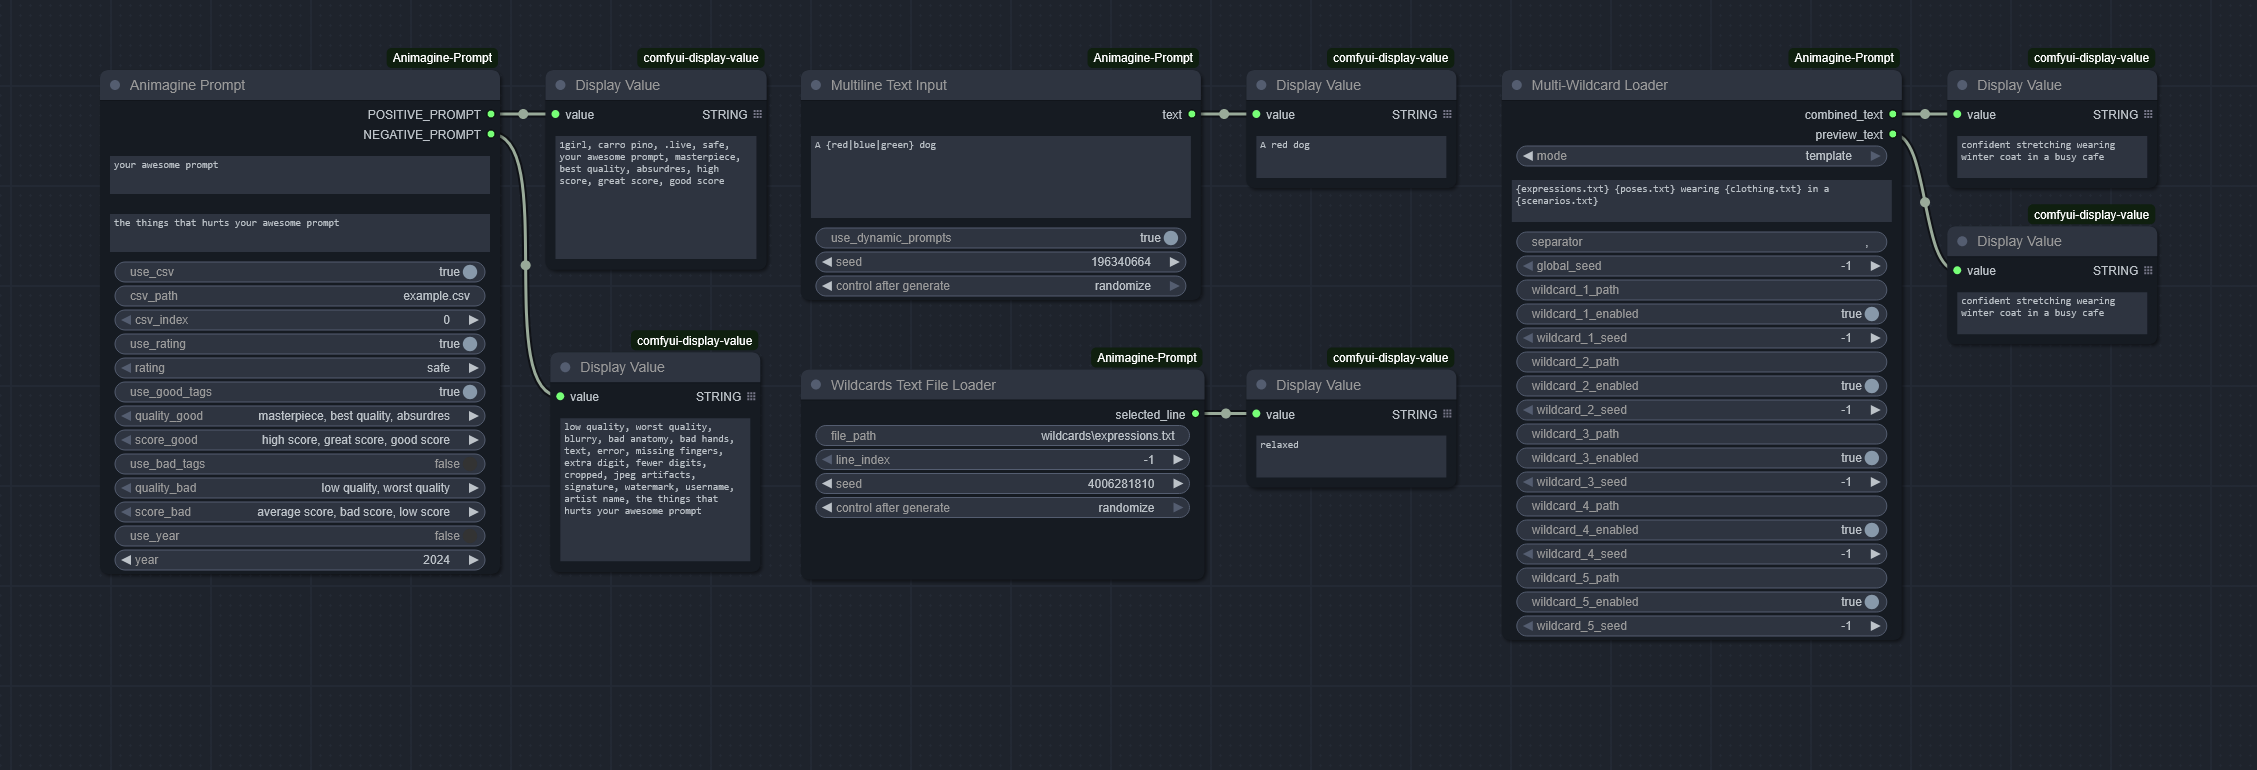
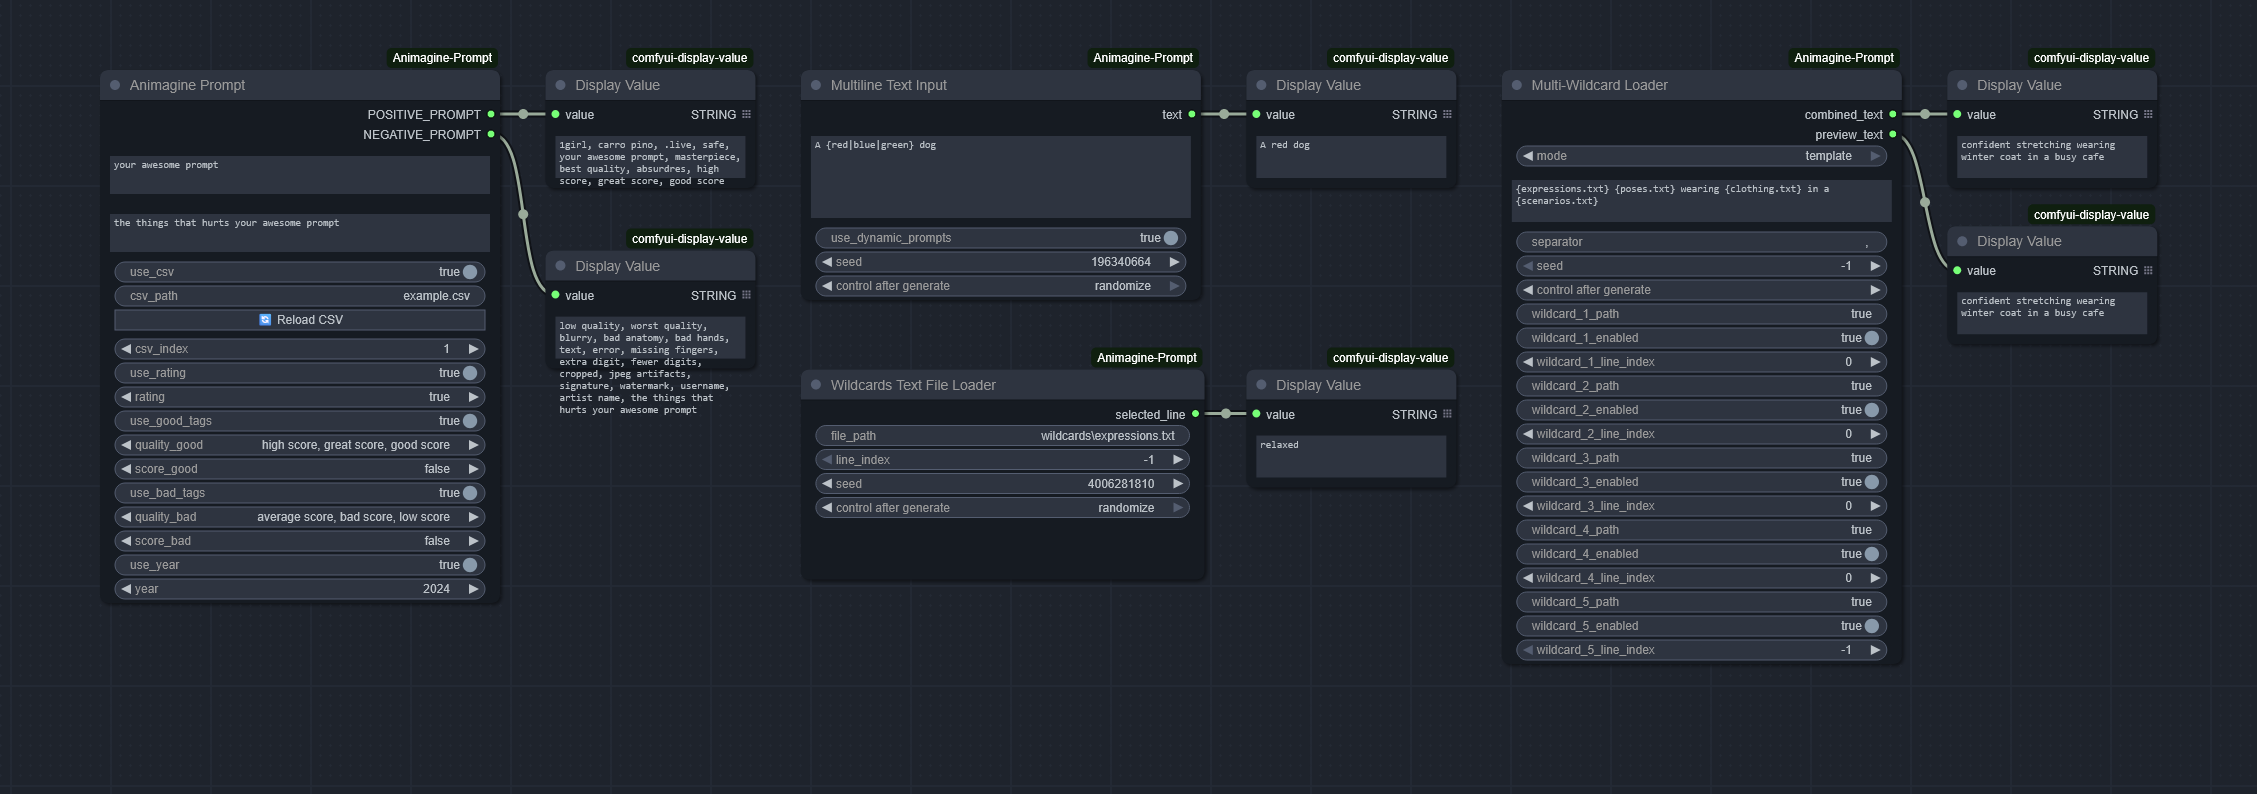
feat(api): add csv reload functionality with api endpoint
- Implement new reload_csv method in AnimaginePromptNode
- Add API routes for CSV reload functionality
- Include JavaScript extension for UI integration
- Update version to 1.6.0

diff --git a/web/animagine_reload.js b/web/animagine_reload.js
@@ -1,0 +1,91 @@
+import { app } from "../../scripts/app.js";
+import { api } from "../../scripts/api.js";
+
+/**
+ * Extension to add CSV reload button to AnimaginePrompt node
+ */
+app.registerExtension({
+    name: "AnimaginePrompt.ReloadCSV",
+    
+    async beforeRegisterNodeDef(nodeType, nodeData, app) {
+        // Only apply to our AnimaginePrompt node
+        if (nodeData.name === "AnimaginePrompt") {
+            
+            // Function to reload CSV
+            const reloadCSV = async (node) => {
+                try {
+                    // Get current csv_path value
+                    const csvPathWidget = node.widgets.find(w => w.name === "csv_path");
+                    if (!csvPathWidget || !csvPathWidget.value) {
+                        alert("No CSV path specified");
+                        return;
+                    }
+                    
+                    // Get reload button to update its text
+                    const reloadButton = node.widgets.find(w => w.name === "🔄 Reload CSV" || w.name.startsWith("🔄 Reload CSV"));
+                    
+                    // Call reload endpoint
+                    const response = await api.fetchApi("/animagine/reload_csv", {
+                        method: "POST",
+                        headers: {
+                            "Content-Type": "application/json",
+                        },
+                        body: JSON.stringify({
+                            csv_path: csvPathWidget.value
+                        })
+                    });
+                    
+                    if (response.ok) {
+                        const result = await response.json();
+                        if (result.success) {
+                            console.log(`CSV reloaded successfully. Rows: ${result.rows}`);
+                            // Update button text with row count
+                            if (reloadButton) {
+                                reloadButton.name = `🔄 Reload CSV (${result.rows})`;
+                            }
+                            node.setDirtyCanvas(true, true);
+                        } else {
+                            alert(`Error reloading CSV: ${result.error}`);
+                        }
+                    } else {
+                        alert("Connection error while reloading CSV");
+                    }
+                    
+                } catch (error) {
+                    console.error("Error reloading CSV:", error);
+                    alert("Error reloading CSV: " + error.message);
+                }
+            };
+            
+            // Function executed when node is created
+            const onNodeCreated = nodeType.prototype.onNodeCreated;
+            nodeType.prototype.onNodeCreated = function() {
+                const result = onNodeCreated?.apply(this, arguments);
+                
+                // Add reload button
+                const reloadButton = this.addWidget(
+                    "button",
+                    "🔄 Reload CSV",
+                    null,
+                    () => reloadCSV(this),
+                    {
+                        serialize: false
+                    }
+                );
+                
+                // Button styling
+                reloadButton.computeSize = () => [120, 25];
+                
+                // Reorder widgets: move button after csv_path
+                const csvPathIndex = this.widgets.findIndex(w => w.name === "csv_path");
+                if (csvPathIndex !== -1) {
+                    const buttonIndex = this.widgets.length - 1;
+                    const button = this.widgets.splice(buttonIndex, 1)[0];
+                    this.widgets.splice(csvPathIndex + 1, 0, button);
+                }
+                
+                return result;
+            };
+        }
+    }
+});

diff --git a/api_routes.py b/api_routes.py
@@ -1,0 +1,68 @@
+"""API routes for Animagine Prompt Node"""
+
+import json
+from aiohttp import web
+from server import PromptServer
+from .animagine_node import AnimaginePromptNode
+from .logger import logger
+
+# Global instance for API calls
+_animagine_instance = None
+
+def get_animagine_instance():
+    """Get or create AnimaginePromptNode instance for API calls"""
+    global _animagine_instance
+    if _animagine_instance is None:
+        _animagine_instance = AnimaginePromptNode()
+    return _animagine_instance
+
+async def reload_csv_endpoint(request):
+    """
+    Endpoint to reload CSV files
+    
+    POST /animagine/reload_csv
+    Body: {"csv_path": "path/to/file.csv"}
+    """
+    try:
+        # Get request data
+        data = await request.json()
+        csv_path = data.get('csv_path')
+        
+        if not csv_path:
+            return web.json_response({
+                'success': False,
+                'error': 'csv_path is required'
+            }, status=400)
+        
+        # Get node instance and reload CSV
+        animagine_node = get_animagine_instance()
+        result = animagine_node.reload_csv(csv_path)
+        
+        logger.logger.info(f"CSV reload API call: {csv_path} - Success: {result['success']}")
+        
+        # Return result
+        status_code = 200 if result['success'] else 400
+        return web.json_response(result, status=status_code)
+        
+    except json.JSONDecodeError:
+        return web.json_response({
+            'success': False,
+            'error': 'Invalid JSON in request body'
+        }, status=400)
+        
+    except Exception as e:
+        logger.log_error(e, "CSV Reload API", {"request_data": str(data) if 'data' in locals() else None})
+        return web.json_response({
+            'success': False,
+            'error': f'Internal server error: {str(e)}'
+        }, status=500)
+
+def define_routes():
+    """
+    Define API routes using PromptServer.instance.routes
+    """
+    @PromptServer.instance.routes.post('/animagine/reload_csv')
+    async def reload_csv_route(request):
+        return await reload_csv_endpoint(request)
+    
+    logger.logger.info("Registered API routes for Animagine Prompt: /animagine/reload_csv")

diff --git a/animagine_node.py b/animagine_node.py
@@ -165,6 +165,49 @@ class AnimaginePromptNode:
 
         return None
 
+    def reload_csv(self, csv_path: str) -> Dict[str, Any]:
+        """
+        Reload CSV file by clearing cache and forcing reload
+        
+        Args:
+            csv_path (str): Path to CSV file to reload
+            
+        Returns:
+            Dict[str, Any]: Result with success status and info
+        """
+        try:
+            # Clear the cache for this specific file
+            if csv_path in self.csv_handler.cache:
+                del self.csv_handler.cache[csv_path]
+                logger.logger.info(f"Cleared cache for CSV: {csv_path}")
+            
+            # Reset last_csv_path to force reload
+            if self.last_csv_path == csv_path:
+                self.last_csv_path = None
+            
+            # Force reload the CSV
+            df = self.csv_handler.load_csv(csv_path)
+            if df is not None:
+                logger.logger.info(f"Successfully reloaded CSV: {csv_path} with {len(df)} rows")
+                return {
+                    "success": True,
+                    "rows": len(df),
+                    "message": f"CSV reloaded successfully with {len(df)} rows"
+                }
+            else:
+                logger.logger.error(f"Failed to reload CSV: {csv_path}")
+                return {
+                    "success": False,
+                    "error": "Failed to load CSV file"
+                }
+                
+        except Exception as e:
+            logger.log_error(e, "CSV Reload", {"csv_path": csv_path})
+            return {
+                "success": False,
+                "error": str(e)
+            }
+
     def generate_prompt(
         self,
         positive_prompt: str,

diff --git a/__init__.py b/__init__.py
@@ -1,11 +1,11 @@
-"""
-Animagine Prompt Node for ComfyUI
+"""Animagine Prompt Node for ComfyUI
 A node designed to help structure prompts according to specific guidelines
 """
 import os
 import logging
 from .animagine_node import AnimaginePromptNode
 from .wildcards_node import MultilineTextInput, TextFileLoader, MultiWildcardLoader
+from .api_routes import define_routes
 
 # Basic logging configuration
 logging.basicConfig(
@@ -22,7 +22,7 @@ SAMPLE_DATA_DIR = os.path.join(NODE_DIR, "sample_data")
 if not os.path.exists(SAMPLE_DATA_DIR):
     os.makedirs(SAMPLE_DATA_DIR)
 
-# Mapping for node registration
+# Node class mappings for registration
 NODE_CLASS_MAPPINGS = {
     "AnimaginePrompt": AnimaginePromptNode,
     "MultilineTextInput": MultilineTextInput,
@@ -30,7 +30,7 @@ NODE_CLASS_MAPPINGS = {
     "MultiWildcardLoader": MultiWildcardLoader
 }
 
-# Mapping for display name
+# Display name mappings for nodes
 NODE_DISPLAY_NAME_MAPPINGS = {
     "AnimaginePrompt": "Animagine Prompt",
     "MultilineTextInput": "Multiline Text Input",
@@ -38,5 +38,11 @@ NODE_DISPLAY_NAME_MAPPINGS = {
     "MultiWildcardLoader": "Multi-Wildcard Loader"
 }
 
+# Web directory configuration for JavaScript extensions
+WEB_DIRECTORY = "./web"
 
-__version__ = "1.5.0"
+# Register API routes directly
+define_routes()
+logger.info("[Animagine Prompt] API routes initialized")
+
+__version__ = "1.6.0"
